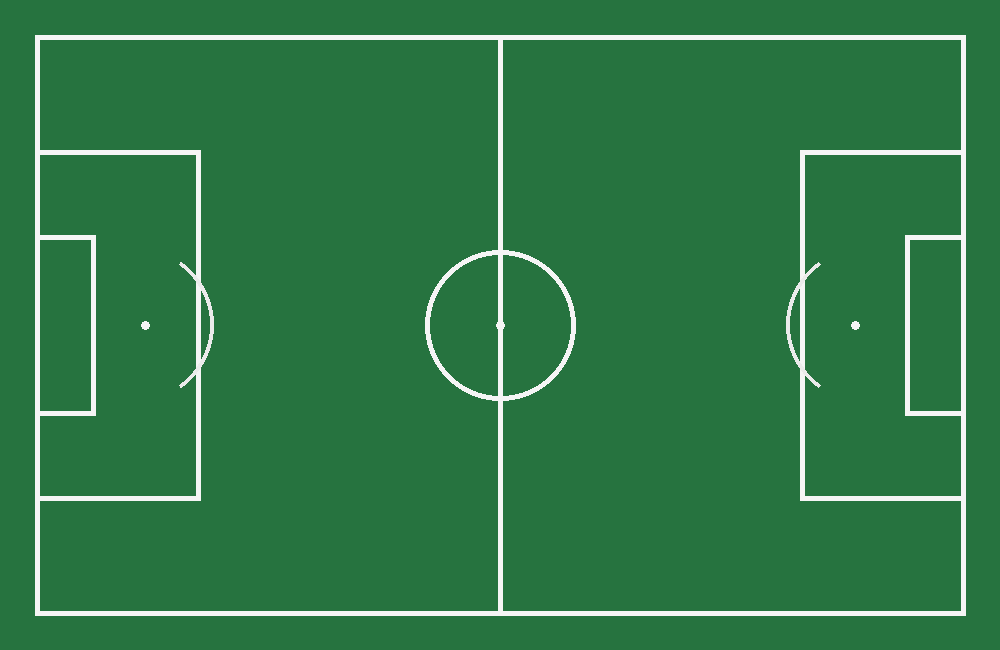
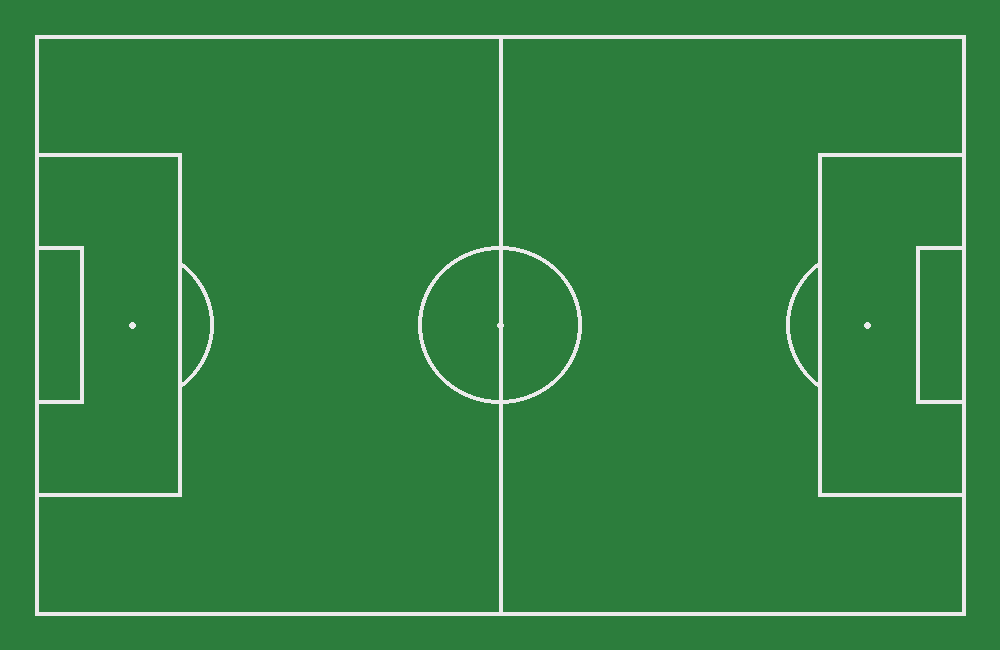
Fix penalty arcs on goal capture pitch

diff --git a/README.md b/README.md
@@ -320,3 +320,8 @@ Wichtig: Bei einer bereits bestehenden Supabase-Datenbank einmal
 - Spielfeldgrafik der Torerfassung um den Halbkreis am 16er ergänzt
 - horizontaler und vertikaler Pitch aktualisiert
 - Eingabefeld passt damit optisch noch besser zur Dashboard-Darstellung
+
+## Neu in v45
+- Pitch-Grafik für die Torerfassung komplett sauber neu gezeichnet
+- Strafraum-Halbkreise (Penalty Arcs) korrekt positioniert und orientiert
+- horizontale und vertikale Pitch-Datei neu erzeugt
